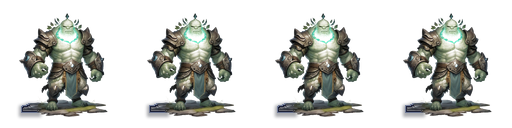
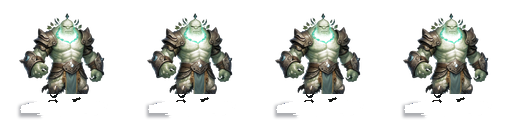
chore: sync auto strategy and asset updates

diff --git a/src/auto/AutoPlayer.ts b/src/auto/AutoPlayer.ts
@@ -1571,9 +1571,9 @@ export class AutoPlayer {
     const baseUrgency = level < expectedLevel
       ? Math2D.clamp((expectedLevel - level) / Math.max(1, expectedLevel), 0, 1)
       : 0;
-    const priestMultiplier = context.player?.characterId === 'priest' ? 1.5 : 1;
+    const growthMultiplier = this.getCharacterGrowthUrgencyMultiplier(context);
 
-    return Math2D.clamp(baseUrgency * priestMultiplier, 0, 1.5);
+    return Math2D.clamp(baseUrgency * growthMultiplier, 0, 1.5);
   }
 
   private evaluateCombatOpportunityScore(
@@ -1603,9 +1603,9 @@ export class AutoPlayer {
     const lateralScore = danger.enemyCenter.lengthSq() > 0 && direction.lengthSq() > 0
       ? this.getStrategicLateralCombatScore(player, direction, danger.enemyCenter)
       : 0;
-    const priestMultiplier = context.player?.characterId === 'priest' ? 1.3 : 1;
+    const combatFarmMultiplier = this.getCharacterCombatFarmMultiplier(context);
 
-    return (endpointScore + tooFarCorrection + lateralScore - overFleePenalty) * priestMultiplier;
+    return (endpointScore + tooFarCorrection + lateralScore - overFleePenalty) * combatFarmMultiplier;
   }
 
   private evaluateStrategicXpAccessScore(
@@ -1620,7 +1620,7 @@ export class AutoPlayer {
     }
 
     const growthUrgency = this.evaluateFarmGrowthUrgency(context);
-    const priestMultiplier = context.player?.characterId === 'priest' ? 1.3 : 1;
+    const combatFarmMultiplier = this.getCharacterCombatFarmMultiplier(context);
     let score = 0;
 
     for (const pickup of context.pickupPositions) {
@@ -1650,7 +1650,31 @@ export class AutoPlayer {
       score += (expValue * 0.8 + clusterScore * 0.32) * distanceFactor;
     }
 
-    return score * (0.7 + growthUrgency) * priestMultiplier;
+    return score * (0.7 + growthUrgency) * combatFarmMultiplier;
+  }
+
+  private getCharacterGrowthUrgencyMultiplier(context: AutoPlayerContext): number {
+    if (context.player?.characterId === 'priest') {
+      return 1.5;
+    }
+
+    if (context.player?.damageReactionType === 'slowTrail') {
+      return 1.35;
+    }
+
+    return 1;
+  }
+
+  private getCharacterCombatFarmMultiplier(context: AutoPlayerContext): number {
+    if (context.player?.characterId === 'priest') {
+      return 1.3;
+    }
+
+    if (context.player?.damageReactionType === 'slowTrail') {
+      return 1.2;
+    }
+
+    return 1;
   }
 
   private evaluateStrategicKillZoneScore(
@@ -1894,7 +1918,7 @@ export class AutoPlayer {
     const combatOpportunityScore = this.evaluateCombatOpportunityScore(context, player, endpoint, direction, danger, mode);
     const xpAccessScore = this.evaluateStrategicXpAccessScore(context, player, endpoint, direction, mode);
     const killZoneScore = this.evaluateStrategicKillZoneScore(context, endpoint, direction, danger, mode);
-    const growthMultiplier = 1 + farmGrowthUrgency * (context.player?.characterId === 'priest' ? 1.35 : 0.9);
+    const growthMultiplier = 1 + farmGrowthUrgency * this.getCharacterCombatFarmMultiplier(context) * 0.9;
     const growthSuppressed = mode === 'SURVIVE'
       || mode === 'REPOSITION'
       || hpRatio < 0.45
@@ -4348,12 +4372,13 @@ export class AutoPlayer {
       } else if (weapon.tags.includes('orbit')) {
         direction.add(this.getOrbitDirection(towardEnemies, danger.nearestDistance, weapon.radiusPx ?? 155).scale(weight));
       } else if (weapon.tags.includes('homing') || weapon.tags.includes('magic')) {
-        direction.add(danger.fleeDirection.clone().scale(0.45 * weight));
+        const range = this.getSingleWeaponEffectiveRange(weapon);
+        direction.add(this.getDistanceBandDirection(towardEnemies, danger.nearestDistance, range.ideal).scale(0.55 * weight));
       } else if (weapon.tags.includes('arcing')) {
         direction.add(this.getOrbitDirection(towardEnemies, danger.nearestDistance, 220).scale(weight));
       } else if (weapon.tags.includes('projectile') || weapon.baseWeaponId === 'knife') {
-        direction.add(danger.fleeDirection.clone().scale(0.75 * weight));
-        direction.add(new Vector2(-towardEnemies.y, towardEnemies.x).normalize().scale(0.35 * weight));
+        const range = this.getSingleWeaponEffectiveRange(weapon);
+        direction.add(this.getDistanceBandDirection(towardEnemies, danger.nearestDistance, range.ideal).scale(0.78 * weight));
       }
     }
 
@@ -4381,9 +4406,25 @@ export class AutoPlayer {
       } else if (weapon.tags.includes('orbit')) {
         score += this.scoreDistanceBand(distance, weapon.radiusPx ?? 155, 0.7, 1.45) * weight;
       } else if (weapon.tags.includes('projectile') || weapon.baseWeaponId === 'knife') {
-        score += direction.dot(danger.fleeDirection) * 2.4 * weight;
+        const range = this.getSingleWeaponEffectiveRange(weapon);
+        const distanceBandScore = this.scoreDistanceBand(distance, range.ideal, range.min / range.ideal, range.max / range.ideal);
+        const lateralScore = danger.enemyCenter.lengthSq() > 0
+          ? this.getStrategicLateralCombatScore(player, direction, danger.enemyCenter) * 0.28
+          : 0;
+        const emergencyFleeScore = danger.nearestDistance < AUTO_PLAYER_CONSTANTS.CONTACT_WARNING_RADIUS
+          ? Math.max(0, direction.dot(danger.fleeDirection)) * 2.2
+          : 0;
+        score += (distanceBandScore * 1.4 + lateralScore + emergencyFleeScore) * weight;
       } else if (weapon.tags.includes('homing') || weapon.tags.includes('magic')) {
-        score += direction.dot(danger.fleeDirection) * 1.2 * weight;
+        const range = this.getSingleWeaponEffectiveRange(weapon);
+        const distanceBandScore = this.scoreDistanceBand(distance, range.ideal, range.min / range.ideal, range.max / range.ideal);
+        const lateralScore = danger.enemyCenter.lengthSq() > 0
+          ? this.getStrategicLateralCombatScore(player, direction, danger.enemyCenter) * 0.22
+          : 0;
+        const emergencyFleeScore = danger.nearestDistance < AUTO_PLAYER_CONSTANTS.CONTACT_WARNING_RADIUS
+          ? Math.max(0, direction.dot(danger.fleeDirection)) * 1.25
+          : 0;
+        score += (distanceBandScore * 1.15 + lateralScore + emergencyFleeScore) * weight;
       }
     }
 

diff --git a/src/strategy/profile/AutoStrategyDefaults.ts b/src/strategy/profile/AutoStrategyDefaults.ts
@@ -9,14 +9,14 @@ export const DEFAULT_AUTO_STRATEGY_PROFILE: AutoStrategyProfile = {
   id: DEFAULT_AUTO_STRATEGY_PROFILE_ID,
   name: 'Balanced Default',
   movement: {
-    survivalBias: 70,
-    combatBias: 50,
-    farmBias: 55,
-    treasureBias: 45,
-    bossBias: 55,
-    riskTolerance: 35,
-    loopBias: 55,
-    overKitePenalty: 50,
+    survivalBias: 50,
+    combatBias: 60,
+    farmBias: 88,
+    treasureBias: 28,
+    bossBias: 86,
+    riskTolerance: 58,
+    loopBias: 68,
+    overKitePenalty: 82,
   },
   upgrade: {
     evolutionPriority: 80,
@@ -48,14 +48,14 @@ export const PLAYTEST_AUTO_STRATEGY_PROFILE: AutoStrategyProfile = {
   id: PLAYTEST_AUTO_STRATEGY_PROFILE_ID,
   name: 'Playtest Baseline',
   movement: {
-    survivalBias: 70,
-    combatBias: 50,
-    farmBias: 55,
-    treasureBias: 45,
-    bossBias: 55,
-    riskTolerance: 35,
-    loopBias: 55,
-    overKitePenalty: 50,
+    survivalBias: 50,
+    combatBias: 60,
+    farmBias: 88,
+    treasureBias: 28,
+    bossBias: 86,
+    riskTolerance: 58,
+    loopBias: 68,
+    overKitePenalty: 82,
   },
   upgrade: {
     evolutionPriority: 80,

diff --git a/src/visual/ShadowConfig.ts b/src/visual/ShadowConfig.ts
@@ -21,7 +21,7 @@ export interface ShadowConfig {
 
 export const SHADOW_CONFIGS: Record<ShadowType, ShadowConfig> = {
   player: { enabled: true, width: 38, height: 14, offsetX: 0, offsetY: 20, alpha: 0.28, depthOffset: -1 },
-  enemy: { enabled: true, width: 32, height: 12, offsetX: 0, offsetY: 18, alpha: 0.22, depthOffset: -1 },
+  enemy: { enabled: true, width: 24, height: 8, offsetX: 0, offsetY: 18, alpha: 0.1, depthOffset: -1 },
   miniBoss: { enabled: true, width: 72, height: 24, offsetX: 0, offsetY: 36, alpha: 0.25, depthOffset: -1 },
   boss: { enabled: true, width: 120, height: 40, offsetX: 0, offsetY: 60, alpha: 0.28, depthOffset: -1 },
   treasure: { enabled: true, width: 42, height: 12, offsetX: 0, offsetY: 20, alpha: 0.22, depthOffset: -1 },
